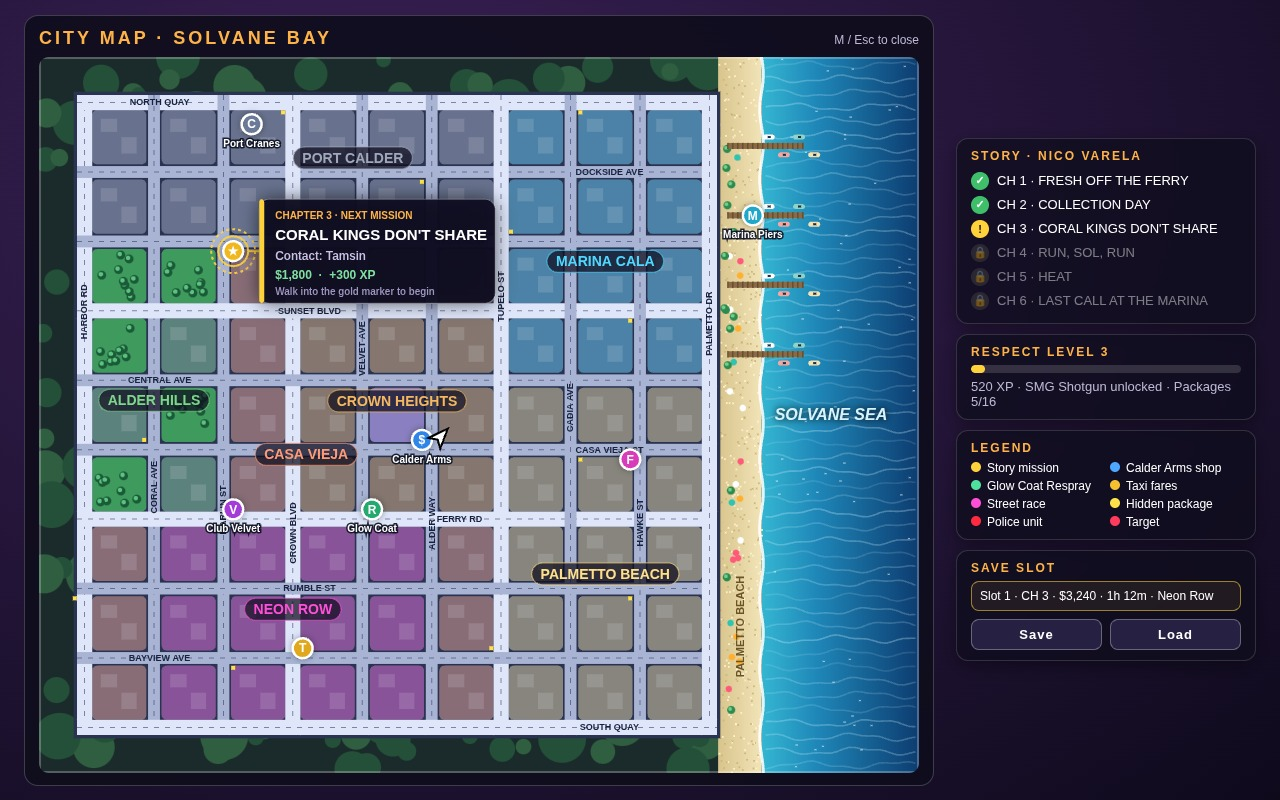
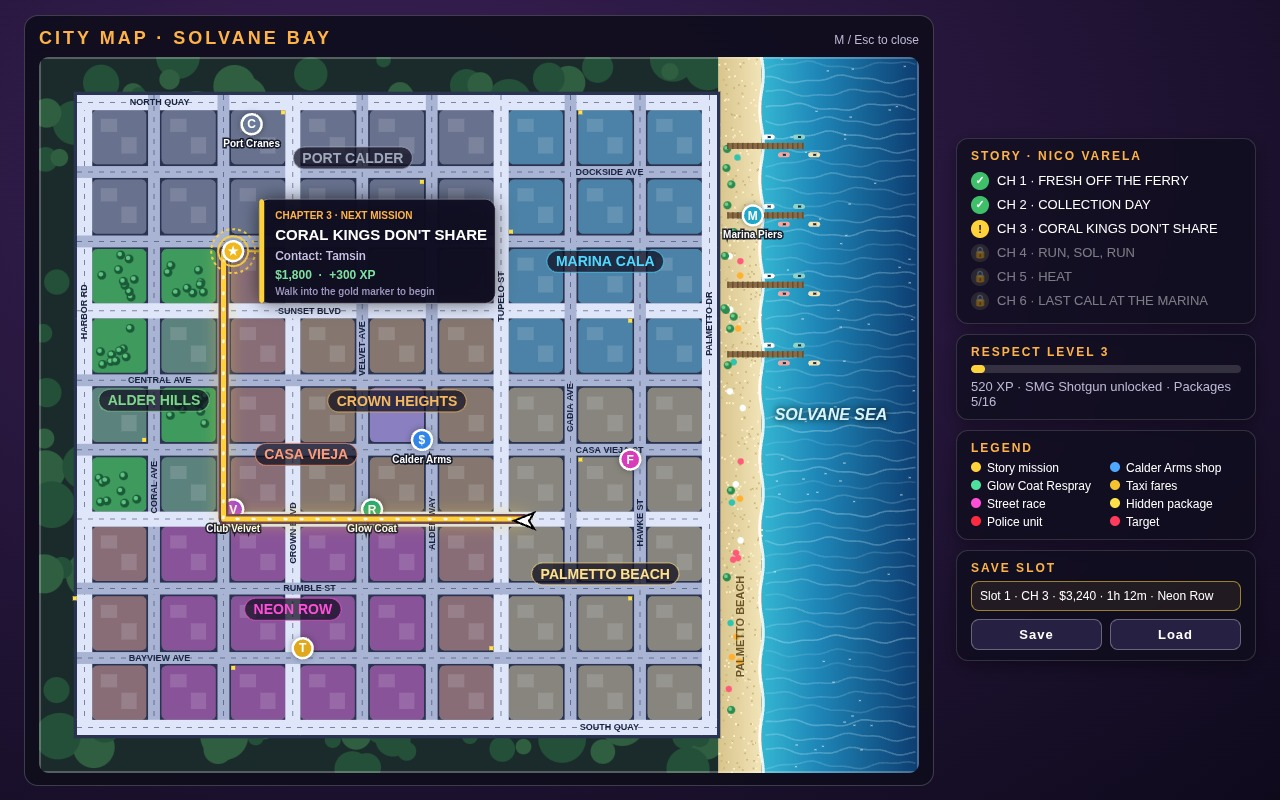
City map: glowing GPS route along the roads from the player to the next mission, labels kept clear of it

Changed region(s): [[0.1562, 0.3125, 0.4375, 0.6875], [0.3125, 0.5312, 0.375, 0.5625]]

diff --git a/game/src/ui/cityMap.js b/game/src/ui/cityMap.js
@@ -2,7 +2,7 @@
 import { G, levelFromXp } from '../core/gameState.js';
 import { MAP_BOUNDS as B, DISTRICTS, HALF, SEA_X, N, RW, RESPECT_XP, lineCoord } from '../core/config.js';
 import { blocks } from '../world/cityLayout.js';
-import { hex, drawBlips } from './minimap.js';
+import { hex, drawBlips, gpsRoute } from './minimap.js';
 import { MISSIONS, corner } from '../missions/storyMissions.js';
 import { slotSummary } from '../save/saveGame.js';
 import { packagePositions, SHOP, GARAGE, TAXI, RACE } from '../missions/sideActivities.js';
@@ -85,6 +85,15 @@ function districtLabels(g, X, Z, W, H) {
   g.restore();
 }
 
+// GPS route from the player to the next mission along the roads: dark casing, glowing gold line, moving chevrons; reserved for labels.
+function drawRoute(g, pts) {
+  const path = () => { g.beginPath(); pts.forEach(([x, y], i) => (i ? g.lineTo(x, y) : g.moveTo(x, y))); };
+  g.save(); g.lineJoin = 'round'; g.lineCap = 'round'; g.shadowBlur = 0;
+  path(); g.strokeStyle = 'rgba(58,18,64,0.9)'; g.lineWidth = 10; g.stroke();
+  g.shadowColor = '#ffd23c'; g.shadowBlur = 16; path(); g.strokeStyle = '#ffd23c'; g.lineWidth = 5; g.stroke(); g.shadowBlur = 0;
+  g.setLineDash([2, 14]); g.lineDashOffset = -(G.time || 0) * 30; path(); g.strokeStyle = 'rgba(255,255,255,0.9)'; g.lineWidth = 2.5; g.stroke(); g.restore();
+  for (let i = 1; i < pts.length; i++) { const [ax, ay] = pts[i - 1], [bx, by] = pts[i], n = Math.ceil(Math.hypot(bx - ax, by - ay) / 18); for (let j = 0; j <= n; j++) { const t = j / Math.max(1, n); occ.push([ax + (bx - ax) * t - 6, ay + (by - ay) * t - 6, 12, 12]); } }
+}
 export function drawCityMap() {
   const cv = document.getElementById('mapCanvas'), g = cv.getContext('2d'), p = G.p, k = Math.min(cv.width / (B.x1 - B.x0), cv.height / (B.z1 - B.z0));
   const X = (x) => (x - B.x0) * k, Z = (z) => (z - B.z0) * k; occ = []; g.setLineDash([]); g.shadowBlur = 0; baseMap(g, X, Z, k);
@@ -96,6 +105,7 @@ export function drawCityMap() {
   const next1 = MISSIONS.find((m) => !G.completed.includes(m.id));
   badge(g, X(SHOP.x), Z(SHOP.z), '#2f86e8', '$', 'Calder Arms'); badge(g, X(GARAGE.x), Z(GARAGE.z), '#25a96f', 'R', 'Glow Coat'); badge(g, X(TAXI.x), Z(TAXI.z), '#e0a81c', 'T'); badge(g, X(RACE.x), Z(RACE.z), '#d93cb8', 'F');
   badge(g, X(lineCoord(1) + 90), Z(lineCoord(0) + 20), '#6a7a98', 'C', 'Port Cranes'); badge(g, X(SEA_X - 8), Z(lineCoord(0) + 104), '#1fa8c9', 'M', 'Marina Piers'); badge(g, X(corner(2, 6, 1, -1).x), Z(corner(2, 6, 1, -1).z), '#a43cd9', 'V', 'Club Velvet');
+  if (next1) drawRoute(g, gpsRoute(p, next1.start).map(([x, z]) => [X(x), Z(z)]));
   if (next1) { const s0 = next1.start; badge(g, X(s0.x), Z(s0.z), '#f0b81c', '\u2605'); infoCard(g, X(s0.x), Z(s0.z), next1, cv.width, cv.height); }
   g.save(); g.translate(X(p.x), Z(p.z)); g.rotate(Math.PI - (p.car ? p.car.heading : p.yaw)); g.fillStyle = '#fff'; g.strokeStyle = '#000'; g.lineWidth = 2; g.beginPath(); g.moveTo(0, -11); g.lineTo(8, 9); g.lineTo(0, 4); g.lineTo(-8, 9); g.closePath(); g.fill(); g.stroke(); g.restore();
   occ.push([X(p.x) - 14, Z(p.z) - 14, 28, 28]); districtLabels(g, X, Z, cv.width, cv.height);

diff --git a/game/src/shots/screenshotScenes.js b/game/src/shots/screenshotScenes.js
@@ -74,7 +74,7 @@ function onfoot(api) {
   rig.mode = 'auto'; finish(api);
   floatText(cops[0].x, 1.5, cops[0].z, '-34', 'hit'); floatText(cops[1].x, 1.5, cops[1].z, '-18', 'hit'); layoutFloaters(0); }
 function map(api) {
-  const p = G.p; seedSave(({ v: 1, money: 3240, xp: 520, completed: ['m1', 'm2'], packages: [0, 3, 5, 9, 11], owned: {}, ammo: {}, clock: 17.6, play: 4320, place: 'Neon Row', at: '2026-11-18 17:35' })); clearTraffic(); G.mode = 'pause'; G.clock = 17.6; G.completed = ['m1', 'm2']; G.xp = 520; G.money = 9150; G.packages = [0, 3, 5, 9, 11]; p.x = 40; p.z = 20; p.yaw = 2.4;
+  const p = G.p; seedSave(({ v: 1, money: 3240, xp: 520, completed: ['m1', 'm2'], packages: [0, 3, 5, 9, 11], owned: {}, ammo: {}, clock: 17.6, play: 4320, place: 'Neon Row', at: '2026-11-18 17:35' })); clearTraffic(); G.mode = 'pause'; G.clock = 17.6; G.completed = ['m1', 'm2']; G.xp = 520; G.money = 9150; G.packages = [0, 3, 5, 9, 11]; p.x = 118; p.z = lineCoord(6) + 1.5; p.yaw = -Math.PI / 2;
   refreshStartMarker(); G.markers.forEach((m) => { m.mesh.visible = false; }); G.wanted.stars = 0; api.showHud(false); rig.mode = 'auto'; api.renderFrame(); api.showScreen('cityMap'); finish(api, 1); }
 // Key art: low angle on the beach road at golden hour, the VELOCE GT and Nico in front, palms, skyline and marina behind.
 function title(api) {
